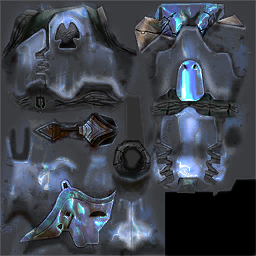
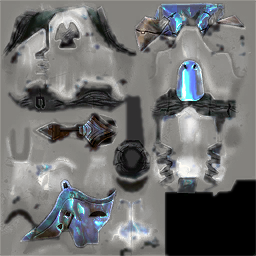
White Hunter Ultra, plain-steel rank shields, dummy Hunters spawn no live brother
- Hunter Ultra: white armour (the blue reflection taken out and the plates lifted to off-white); its arm cannon stays blue.
- Major and Ultra shields: no rank colour on the shield (its texels found from the surfaces on the left forearm and hand). Rim, stray paint and reflection are plain steel, so the white, red and blue edges are gone; its own lights stay.
- Display dummies (punkassbitches, scenes) no longer get a live bonded brother that walks off. A Hunter's brother takes the spawner's dummy/stand-still state.

Claude-Session: https://claude.ai/code/session_01Ja8vbkayn83DPTjJrhXLXZ

diff --git a/generator/build_pack.py b/generator/build_pack.py
@@ -887,6 +887,36 @@ def bake_shield(char, mat, tint, outpath):
     o = col * (0.55 + 0.6 * n[..., None]) + (n[..., None] ** 3) * 0.35
     Image.fromarray(np.clip(o * 255, 0, 255).astype(np.uint8)).save(outpath)
 
+_SHIELD_MASK = {}
+
+def hunter_shield_mask(char, mat, size):
+    """the Hunter's shield (the surfaces on its left forearm and hand) as a mask over this texture (W x H, 0..1), its edges
+    grown a few texels so the island's border is in it; None if the shield isn't on this texture"""
+    key = (char, mat, size)
+    if key in _SHIELD_MASK: return _SHIELD_MASK[key]
+    from iqm import read_iqm
+    from PIL import ImageDraw
+    from scipy import ndimage
+    joints, meshes, _ = read_iqm(f'{OUT}/models/{char}/{char}.iqm')
+    names = [j[0] for j in joints]
+    mats = json.load(open(f'{OUT}/models/{char}/{char}.json'))['meshes']
+    keep = {names.index(n) for n in ('bip01 l forearm', 'bip01 l hand') if n in names}
+    W, H = size
+    img = Image.new('L', (W, H), 0); d = ImageDraw.Draw(img)
+    for mi, M in enumerate(meshes):
+        if mats[mi][:-4] != mat: continue
+        dom = M['bidx'][np.arange(len(M['bidx'])), M['bw'].argmax(1)]
+        for t in M['tris']:
+            if all(dom[v] in keep for v in t):
+                d.polygon([(M['uv'][v][0] % 1 * W, M['uv'][v][1] % 1 * H) for v in t], fill=255)
+    a = np.asarray(img, np.float32) / 255
+    out = None
+    if a.max() > 0:
+        out = np.clip(ndimage.gaussian_filter(ndimage.grey_dilation(a, size=(5, 5)), 1.0) * 1.2, 0, 1)
+    _SHIELD_MASK[key] = out
+    return out
+
+
 def bake_hunter(char, mat, mode, outpath):
     """Hunter armour is painted blue in the base map; recolour the blue armour by hue (worm flesh/cannon untouched)."""
     im = Image.open(f'{OUT}/models/{char}/{mat}.png').convert('RGB')
@@ -899,6 +929,11 @@ def bake_hunter(char, mat, mode, outpath):
     hue_in = np.clip(np.minimum(h - 175, 275 - h) / 20.0, 0, 1)
     sat_in = np.clip((sv - 0.10) / 0.14, 0, 1)
     armour = np.clip(ndimage.gaussian_filter(hue_in * sat_in, 1.2) * 1.25, 0, 1)[..., None]
+    # the shield takes no rank colour: its painted rim (a thin blue line) came out patchy, half recoloured, half not;
+    # it is plain dark metal like the plate it frames (shield: the shield's own texels, a little past their edges)
+    shield = hunter_shield_mask(char, mat, im.size)
+    if shield is not None:
+        armour = armour * (1 - shield[..., None])
     lum = (0.3 * rgb[..., 0] + 0.59 * rgb[..., 1] + 0.11 * rgb[..., 2])[..., None]
     # the colour laid on as the Elites' rank colours are (bake_vivid): the paint's light and shade kept, a highlight on
     # the edges, not a flat fill at full saturation; then the same cube-map armour reflection as the Elites (add_shine,
@@ -910,6 +945,18 @@ def bake_hunter(char, mat, mode, outpath):
     # the rank's cube map on the recoloured armour; the cannon, the worms and the rest keep the blue Hunter's
     o = add_shine(char, mat, o, HUNTER_COLOURS[mode]) * armour + add_shine(char, mat, o, None) * (1 - armour)
     o = hue_lock(o, armour[..., 0].astype(np.float32), HUNTER_COLOURS[mode])
+    if shield is not None:
+        # the whole shield in neutral metal (its rim, stray paint and the blue reflection off its edges), all but its own
+        # glowing lights (bright and saturated in the paint)
+        glow = np.clip((v - 0.5) / 0.15, 0, 1) * np.clip((sv - 0.35) / 0.15, 0, 1)
+        k = (shield * (1 - glow))[..., None]
+        metal = o.mean(axis=2, keepdims=True) * np.array([0.97, 0.98, 1.0], np.float32)
+        o = o * (1 - k) + metal * k
+    if mode == 'white':
+        # white paint: the reflection's blue taken out and the plates lifted to a bright off-white, keeping their shading
+        g = o.mean(axis=2, keepdims=True)
+        paint = np.clip(0.38 + 0.72 * g, 0, 1) * np.array([1.0, 0.985, 0.95], np.float32)
+        o = o * (1 - armour * 0.9) + paint * armour * 0.9
     Image.fromarray(np.clip(o * 255, 0, 255).astype(np.uint8)).save(outpath)
 
 # HUNTER_COLOURS: variants.py
